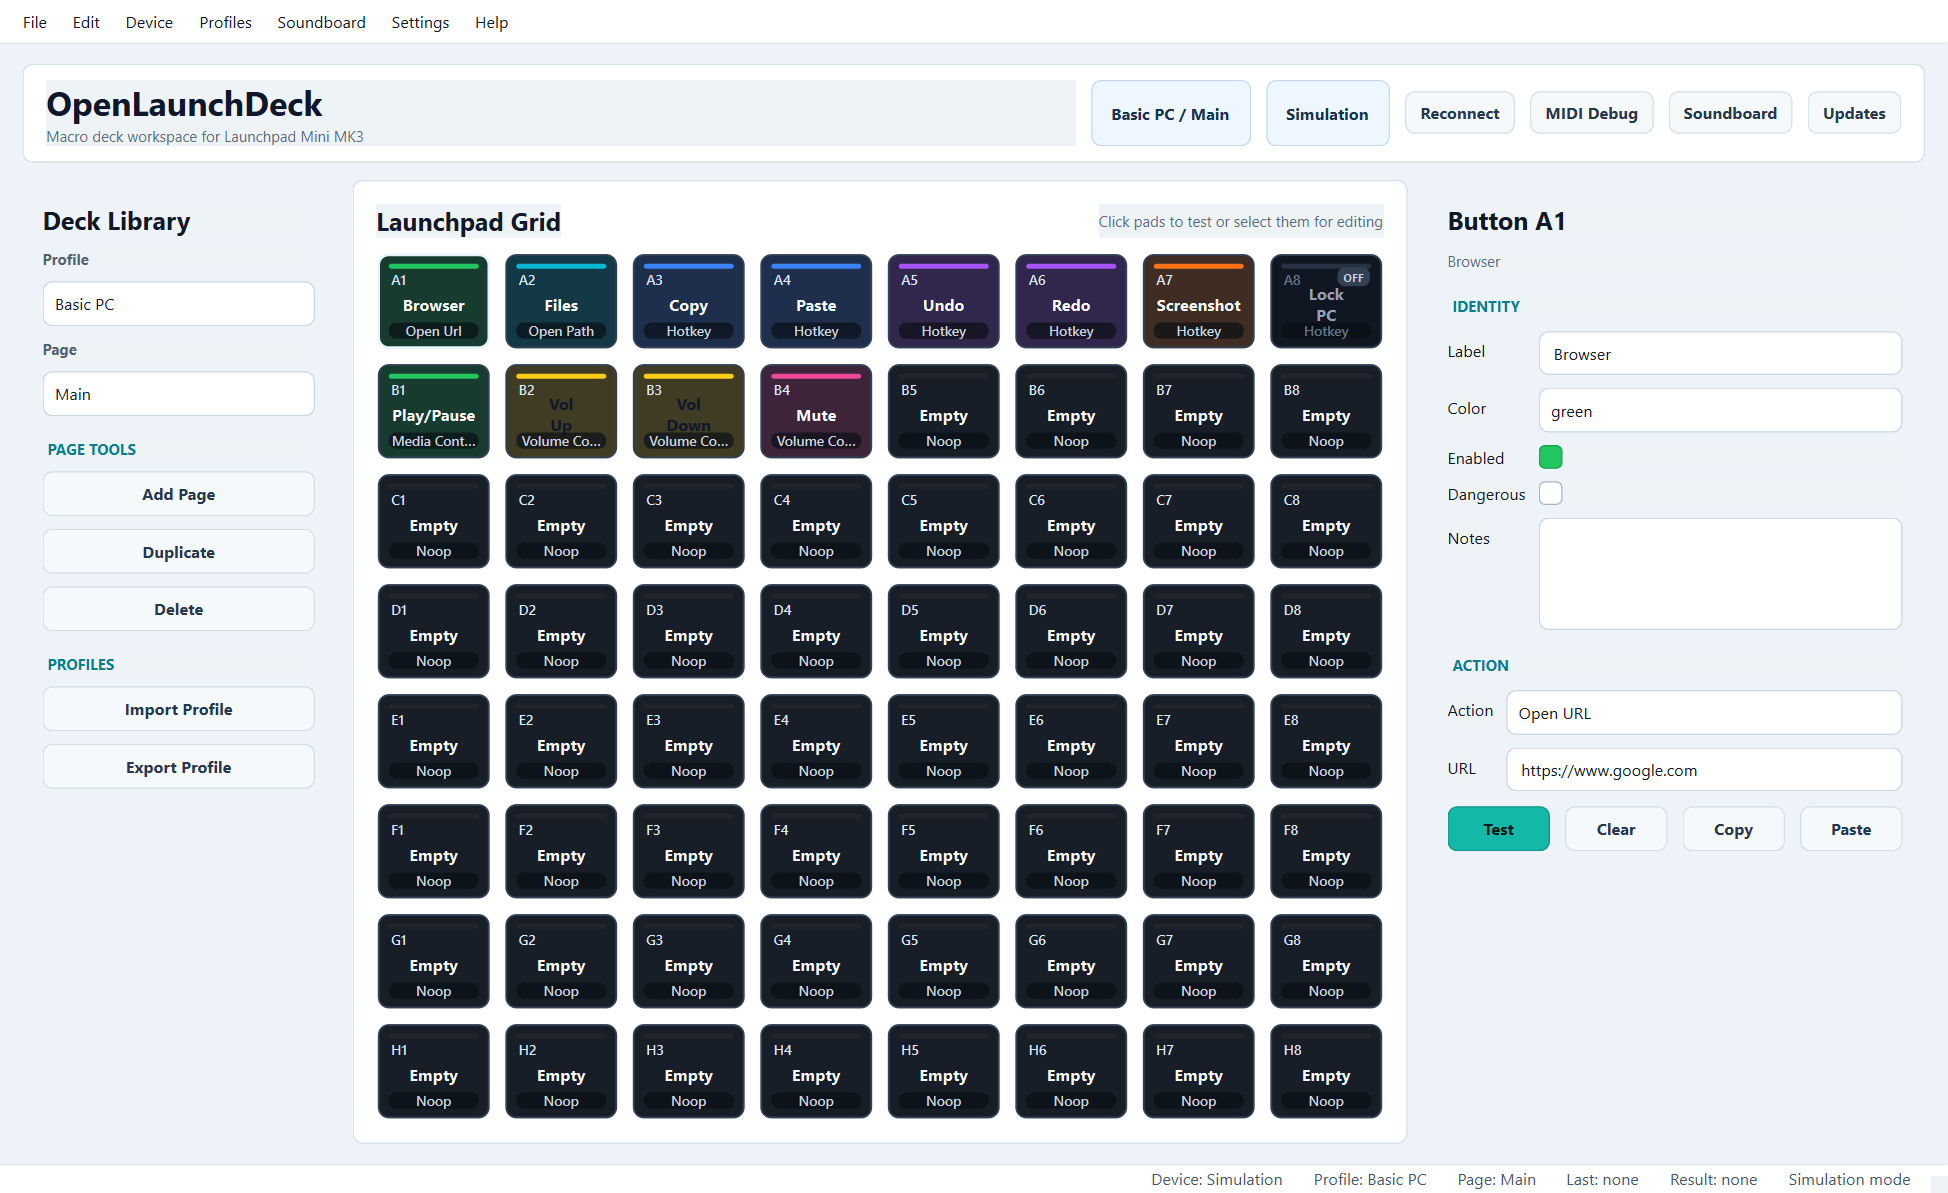
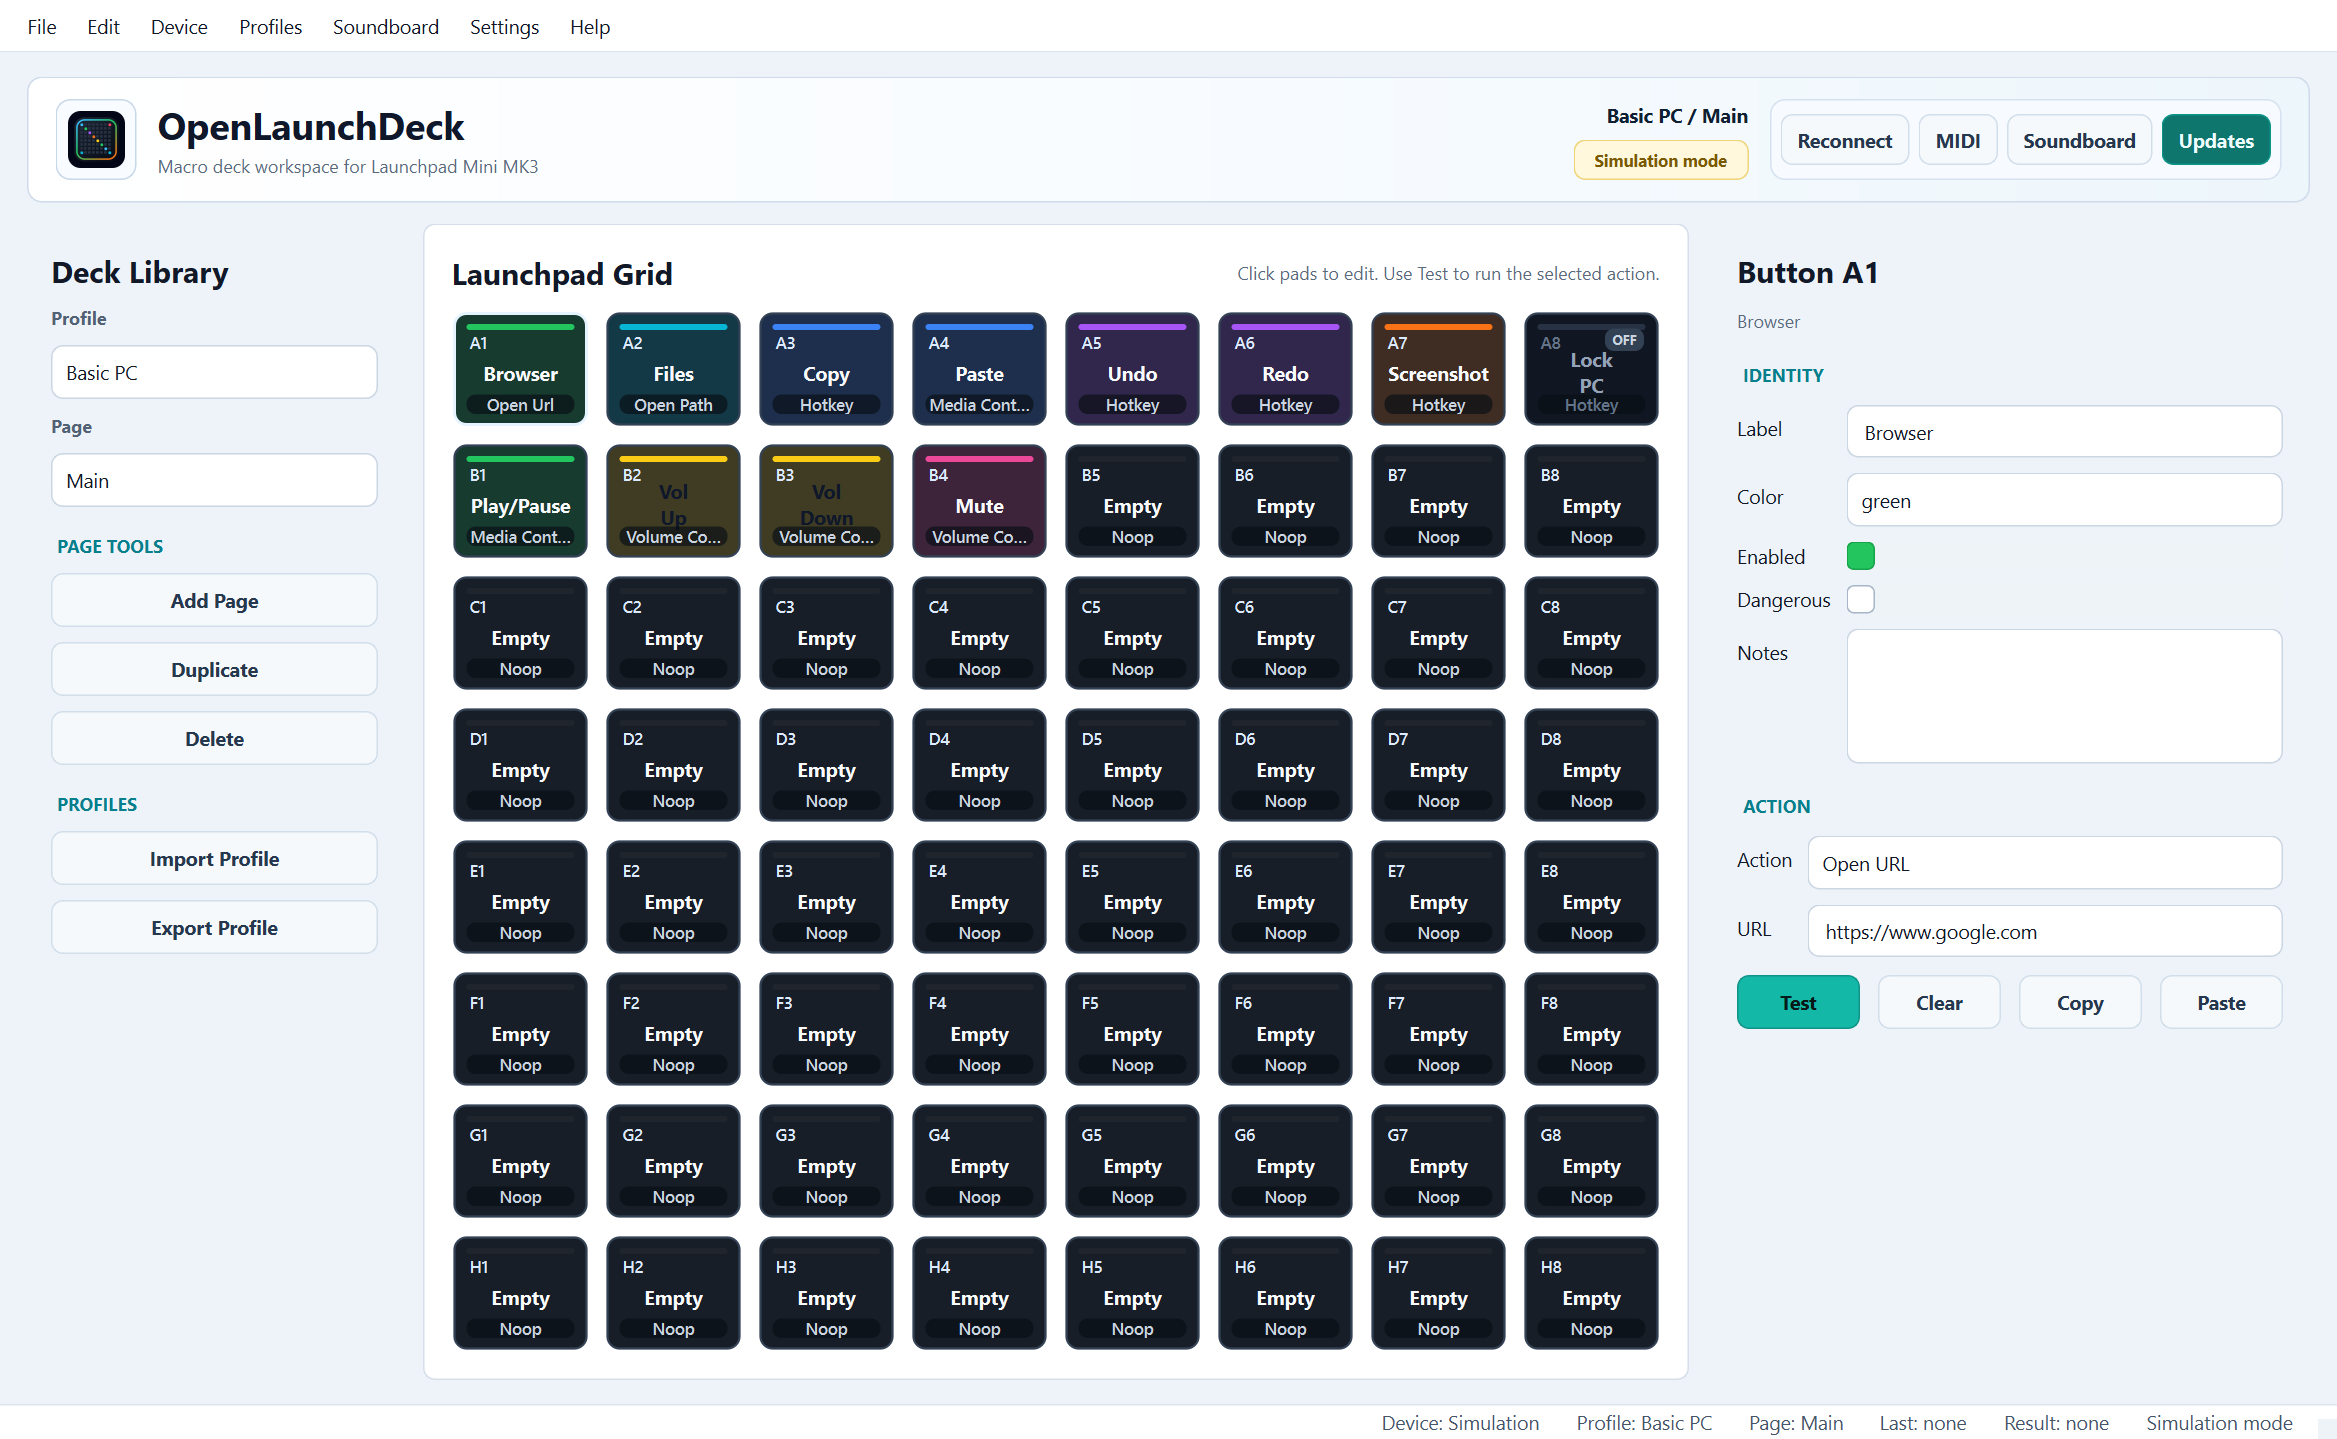
Make grid clicks edit only

diff --git a/openlaunchdeck/ui/main_window.py b/openlaunchdeck/ui/main_window.py
@@ -85,7 +85,7 @@ class MainWindow(QMainWindow):
         self._startup_update_worker: UpdateCheckWorker | None = None
         self.setWindowTitle(f"{APP_NAME} {__version__}")
         self.setWindowIcon(app_icon())
-        self.resize(1440, 900)
+        self.resize(1480, 920)
         self.setStyleSheet(load_theme(self.services.settings_service.settings.theme))
 
         self.services.action_runner.completion_callback = lambda button_id, result: self.action_finished.emit(button_id, result)
@@ -123,10 +123,16 @@ class MainWindow(QMainWindow):
         header = QFrame()
         header.setObjectName("AppHeader")
         header_layout = QHBoxLayout(header)
-        header_layout.setContentsMargins(18, 12, 18, 12)
-        header_layout.setSpacing(12)
+        header_layout.setContentsMargins(18, 14, 18, 14)
+        header_layout.setSpacing(14)
+
+        icon = QLabel()
+        icon.setObjectName("HeaderIcon")
+        icon.setPixmap(app_icon().pixmap(38, 38))
+        header_layout.addWidget(icon)
 
         brand = QWidget()
+        brand.setObjectName("HeaderBrand")
         brand_layout = QVBoxLayout(brand)
         brand_layout.setContentsMargins(0, 0, 0, 0)
         brand_layout.setSpacing(1)
@@ -138,15 +144,26 @@ class MainWindow(QMainWindow):
         brand_layout.addWidget(subtitle)
         header_layout.addWidget(brand, 1)
 
+        header_meta = QWidget()
+        header_meta.setObjectName("HeaderMeta")
+        header_meta_layout = QVBoxLayout(header_meta)
+        header_meta_layout.setContentsMargins(0, 0, 0, 0)
+        header_meta_layout.setSpacing(6)
         self.header_profile = QLabel("")
-        self.header_profile.setObjectName("HeaderChip")
+        self.header_profile.setObjectName("HeaderActiveDeck")
         self.header_mode = QLabel("Simulation")
-        self.header_mode.setObjectName("HeaderChip")
-        header_layout.addWidget(self.header_profile)
-        header_layout.addWidget(self.header_mode)
+        self.header_mode.setObjectName("HeaderModeChip")
+        header_meta_layout.addWidget(self.header_profile, 0, Qt.AlignmentFlag.AlignRight)
+        header_meta_layout.addWidget(self.header_mode, 0, Qt.AlignmentFlag.AlignRight)
+        header_layout.addWidget(header_meta)
 
+        actions_frame = QFrame()
+        actions_frame.setObjectName("HeaderActions")
+        actions_layout = QHBoxLayout(actions_frame)
+        actions_layout.setContentsMargins(6, 6, 6, 6)
+        actions_layout.setSpacing(6)
         self.header_reconnect_button = QPushButton("Reconnect")
-        self.header_debug_button = QPushButton("MIDI Debug")
+        self.header_debug_button = QPushButton("MIDI")
         self.header_soundboard_button = QPushButton("Soundboard")
         self.header_update_button = QPushButton("Updates")
         for button in (
@@ -156,7 +173,9 @@ class MainWindow(QMainWindow):
             self.header_update_button,
         ):
             button.setObjectName("HeaderButton")
-            header_layout.addWidget(button)
+            actions_layout.addWidget(button)
+        self.header_update_button.setObjectName("HeaderPrimaryButton")
+        header_layout.addWidget(actions_frame)
 
         root.addWidget(header)
 
@@ -183,7 +202,7 @@ class MainWindow(QMainWindow):
         deck_header = QHBoxLayout()
         deck_title = QLabel("Launchpad Grid")
         deck_title.setObjectName("PanelTitle")
-        deck_hint = QLabel("Click pads to test or select them for editing")
+        deck_hint = QLabel("Click pads to edit. Use Test to run the selected action.")
         deck_hint.setObjectName("PanelHint")
         deck_header.addWidget(deck_title)
         deck_header.addStretch(1)
@@ -285,7 +304,7 @@ class MainWindow(QMainWindow):
             self.statusBar().addPermanentWidget(label)
 
     def _connect_signals(self) -> None:
-        self.grid.button_clicked.connect(self.handle_simulation_press)
+        self.grid.button_clicked.connect(self.select_button)
         self.editor.changed.connect(self.save_button_changes)
         self.editor.test_requested.connect(lambda: self.handle_simulation_press(self.grid.selected_button_id))
         self.editor.clear_requested.connect(self.clear_selected_button)
@@ -318,7 +337,13 @@ class MainWindow(QMainWindow):
         self.mode_status.setText("Connected mode" if self.services.device.connected else "Simulation mode")
         self.device_status.setText("Device: Connected" if self.services.device.connected else "Device: Simulation")
         self.header_profile.setText(f"{profile_service.current_profile.name} / {current_page.name}")
-        self.header_mode.setText("Connected" if self.services.device.connected else "Simulation")
+        self._set_header_mode(self.services.device.connected)
+
+    def _set_header_mode(self, connected: bool) -> None:
+        self.header_mode.setText("Connected mode" if connected else "Simulation mode")
+        self.header_mode.setProperty("state", "connected" if connected else "simulation")
+        self.header_mode.style().unpolish(self.header_mode)
+        self.header_mode.style().polish(self.header_mode)
 
     def refresh_lighting(self) -> None:
         self.services.lighting_service.refresh_page(
@@ -328,6 +353,8 @@ class MainWindow(QMainWindow):
         )
 
     def handle_simulation_press(self, button_id: str) -> None:
+        if not button_id:
+            return
         self.select_button(button_id)
         self.last_pressed_status.setText(f"Last: {button_id}")
         self.services.action_runner.handle_button_press(button_id, "simulation")
@@ -550,7 +577,7 @@ class MainWindow(QMainWindow):
         self.refresh_all()
 
     def check_updates(self) -> None:
-        UpdateDialog(self.services.settings_service, self.services.logger, self).exec()
+        UpdateDialog(self.services.settings_service, self.services.logger, self, auto_check=True).exec()
 
     def check_updates_on_startup(self) -> None:
         if self._startup_update_thread is not None:

diff --git a/tests/test_update_dialog.py b/tests/test_update_dialog.py
@@ -5,7 +5,10 @@ os.environ.setdefault("QT_QPA_PLATFORM", "offscreen")
 from PySide6.QtWidgets import QApplication
 
 from openlaunchdeck.services.update_service import UpdateService
-from openlaunchdeck.ui.update_dialog import UpdateCheckWorker
+from openlaunchdeck.app import build_services
+from openlaunchdeck.ui import main_window as main_window_module
+from openlaunchdeck.ui.main_window import MainWindow
+from openlaunchdeck.ui.update_dialog import UpdateCheckWorker, UpdateDialog
 
 
 class FailingUpdateService(UpdateService):
@@ -25,3 +28,51 @@ def test_update_worker_reports_failed_check_without_raising():
     worker.run()
 
     assert failures == ["manifest unavailable"]
+
+
+def test_header_updates_button_opens_update_dialog(monkeypatch):
+    app = QApplication.instance() or QApplication([])
+    services = build_services()
+    services.settings_service.settings.first_run_complete = True
+    services.settings_service.settings.auto_connect = False
+    opened = []
+
+    class FakeUpdateDialog:
+        def __init__(self, settings_service, logger=None, parent=None, auto_check=False):
+            opened.append((settings_service, logger, parent, auto_check))
+
+        def exec(self):
+            opened.append("exec")
+            return 0
+
+    monkeypatch.setattr(main_window_module, "UpdateDialog", FakeUpdateDialog)
+
+    window = MainWindow(services)
+    window.header_update_button.click()
+    app.processEvents()
+
+    assert opened[-1] == "exec"
+    assert opened[0][0] is services.settings_service
+    assert opened[0][2] is window
+    assert opened[0][3] is True
+
+    window._force_quit = True
+    window.close()
+    services.action_runner.shutdown()
+    services.device.close()
+
+
+def test_update_dialog_auto_check_reports_missing_manifest_url():
+    app = QApplication.instance() or QApplication([])
+    services = build_services()
+    services.settings_service.settings.update_manifest_url = ""
+
+    dialog = UpdateDialog(services.settings_service, auto_check=True)
+    app.processEvents()
+
+    assert dialog.label.text() == "No update manifest URL is configured."
+    assert "Set an update manifest URL" in dialog.output.toPlainText()
+
+    dialog.close()
+    services.action_runner.shutdown()
+    services.device.close()

diff --git a/tests/test_gui_simulation.py b/tests/test_gui_simulation.py
@@ -11,7 +11,7 @@ from openlaunchdeck.models.page import Page
 from openlaunchdeck.ui.main_window import MainWindow
 
 
-def test_gui_grid_and_simulation_use_action_runner():
+def test_grid_click_selects_without_running_action():
     app = QApplication.instance() or QApplication([])
     services = build_services()
     services.settings_service.settings.first_run_complete = True
@@ -23,12 +23,18 @@ def test_gui_grid_and_simulation_use_action_runner():
         calls.append((button_id, source))
 
     services.action_runner.handle_button_press = fake_press
-    window.grid.button_clicked.emit("A1")
+    window.grid.button_clicked.emit("B2")
+    app.processEvents()
+
+    assert calls == []
+
     window.hardware_button.emit("B2", True, None)
+    window.editor.test_requested.emit()
     app.processEvents()
 
     assert len(window.grid.cells) == 64
-    assert ("A1", "simulation") in calls
+    assert window.grid.selected_button_id == "B2"
+    assert calls.count(("B2", "simulation")) == 1
     assert ("B2", "midi") in calls
 
     window._force_quit = True
@@ -56,7 +62,7 @@ def test_switch_page_action_refreshes_grid_and_status():
     )
     window.refresh_all()
 
-    window.grid.button_clicked.emit("A1")
+    window.editor.test_requested.emit()
     app.processEvents()
 
     assert services.profile_service.current_page_id == "second"

diff --git a/openlaunchdeck/ui/update_dialog.py b/openlaunchdeck/ui/update_dialog.py
@@ -3,7 +3,7 @@ from __future__ import annotations
 import webbrowser
 from pathlib import Path
 
-from PySide6.QtCore import QObject, QThread, Signal, Slot
+from PySide6.QtCore import QObject, QThread, QTimer, Signal, Slot
 from PySide6.QtWidgets import (
     QApplication,
     QDialog,
@@ -64,7 +64,7 @@ class UpdateDownloadWorker(QObject):
 
 
 class UpdateDialog(QDialog):
-    def __init__(self, settings_service, logger=None, parent=None) -> None:
+    def __init__(self, settings_service, logger=None, parent=None, auto_check: bool = False) -> None:
         super().__init__(parent)
         self.settings_service = settings_service
         self.logger = logger
@@ -110,6 +110,8 @@ class UpdateDialog(QDialog):
         self.install_button.clicked.connect(self.install_update)
         self.close_button.clicked.connect(self.reject)
         self._update_buttons()
+        if auto_check:
+            QTimer.singleShot(0, self.check)
 
     def check(self) -> None:
         manifest_url = self.settings_service.settings.update_manifest_url.strip()

diff --git a/openlaunchdeck/version.py b/openlaunchdeck/version.py
@@ -1,2 +1,2 @@
 APP_NAME = "OpenLaunchDeck"
-__version__ = "0.1.6"
+__version__ = "0.1.7"

diff --git a/README.md b/README.md
@@ -28,7 +28,7 @@ More screenshots are tracked in [docs/screenshots](docs/screenshots).
 - Editable 8x8 Launchpad-style grid
 - Modern dark/light desktop UI with configurable grid density
 - Multiple profiles and pages
-- Simulation clicks for setup without hardware
+- Simulation testing without hardware through the button editor
 - MIDI input/output structure for Launchpad Mini MK3
 - Isolated A1-H8 MIDI mapping with calibration
 - Page lighting refresh with changed-pad batching
@@ -121,15 +121,15 @@ When Inno Setup is available, the script builds `dist\installer\OpenLaunchDeckSe
 Every tagged release should publish ready-to-download Windows packages. Push a `v<version>` tag after the version bump is committed:
 
 ```powershell
-git tag v0.1.6
-git push origin v0.1.6
+git tag v0.1.7
+git push origin v0.1.7
 ```
 
 The Release workflow builds and uploads the installer EXE, portable ZIP, and SHA256 checksum files to GitHub Releases. It uses the same build script with CI-specific fast packaging flags so tagged releases spend less time on packaging.
 
 ## First Setup
 
-On first launch, choose a starter profile or start with a blank deck. If no Launchpad is connected, OpenLaunchDeck stays in simulation mode and lets you edit profiles and test actions by clicking grid cells.
+On first launch, choose a starter profile or start with a blank deck. If no Launchpad is connected, OpenLaunchDeck stays in simulation mode. Click grid pads to edit them, then use the selected button's Test control when you want to run an action from the app.
 
 When the Launchpad is connected:
 

diff --git a/docs/release_checklist.md b/docs/release_checklist.md
@@ -12,7 +12,8 @@
 - Run `pytest`.
 - Launch the app from source with `python -m openlaunchdeck.main`.
 - Verify simulation mode without hardware.
-- Verify simulation button presses reach the action runner.
+- Verify grid clicks select buttons for editing without running actions.
+- Verify the selected button's Test control reaches the action runner.
 - Verify profile save/load.
 - Verify starter profiles load.
 - Verify update manifest parsing and checksum failure handling.

diff --git a/CHANGELOG.md b/CHANGELOG.md
@@ -1,5 +1,12 @@
 # Changelog
 
+## 0.1.7
+
+- Made app grid clicks select pads for editing without running their actions.
+- Kept action execution behind the selected button's Test control or real MIDI pad presses.
+- Made the update dialog auto-check when opened from the app.
+- Polished the header bar, mode indicator, update button, and dark theme label styling.
+
 ## 0.1.6
 
 - Shortened the tagged release build path used by GitHub Actions.
